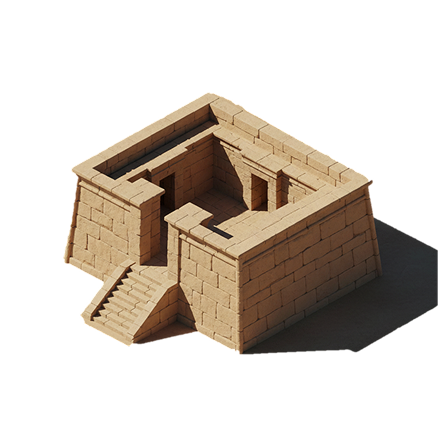
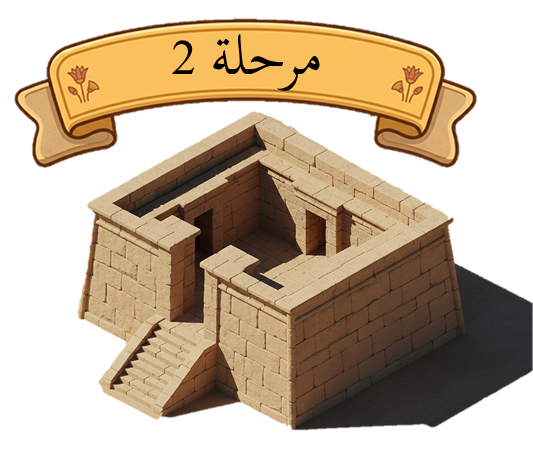
LevelsModelandscreenedit

diff --git a/lib/Models/LevelsModel.dart b/lib/Models/LevelsModel.dart
@@ -12,16 +12,17 @@ final List<StageModel> levelStages = [
     id: 1,
     requiredStars: 0,
     image: AppImages.mapad1,
-    position: const Offset(300, 75),
-    imageWidth: 150,
-    imageHeight: 150,
+    //        space from left, space from top
+    position: const Offset(50, 50),
+    imageWidth: 225,
+    imageHeight: 225,
     levelScreen: const LevelOne(),
   ),
   StageModel(
     id: 2,
-    requiredStars: 25,
+    requiredStars: 30,
     image: AppImages.mapad2,
-    position: const Offset(800, 30),
+    position: const Offset(1100, 50),
     imageWidth: 225,
     imageHeight: 225,
     levelScreen: const LevelTwo(),
@@ -29,29 +30,11 @@ final List<StageModel> levelStages = [
   StageModel(
     levelScreen: const LevelThree(),
     id: 3,
-    requiredStars: 50,
+    requiredStars: 60,
     image: AppImages.mapad3,
-    position: const Offset(1300, 25),
-    imageWidth: 200,
-    imageHeight: 200,
-  ),
-  StageModel(
-    levelScreen: const LevelOne(),
-    id: 4,
-    requiredStars: 75,
-    image: AppImages.mapad4,
-    position: const Offset(300, 600),
-    imageWidth: 200,
-    imageHeight: 200,
-  ),
-  StageModel(
-    levelScreen: const LevelOne(),
-    id: 5,
-    requiredStars: 100,
-    image: AppImages.mapad5,
-    position: const Offset(900, 600),
-    imageWidth: 300,
-    imageHeight: 175,
+    position: const Offset(450, 500),
+    imageWidth: 225,
+    imageHeight: 225,
   ),
 ];
 

diff --git a/lib/Screens/levelMapScreen.dart b/lib/Screens/levelMapScreen.dart
@@ -10,6 +10,8 @@ class LevelMapScreen extends StatelessWidget {
 
   @override
   Widget build(BuildContext context) {
+    final stars = context.watch<GameCubit>().state.theGame.stars;
+
     return Scaffold(
       body: Stack(
         children: [
@@ -18,6 +20,24 @@ class LevelMapScreen extends StatelessWidget {
             child: Image.asset(AppImages.mapPage, fit: BoxFit.cover),
           ),
           ...levelStages.map((stage) => StageButton(stage: stage)),
+          Positioned(
+            top: 150.h,
+            right: 650.w,
+            child: Image.asset(
+              stars >= 30 ? AppImages.track1 : AppImages.track_1dark,
+              width: 650.w,
+              height: 200.h,
+            ),
+          ),
+          Positioned(
+            top: 180.h,
+            right: 425.w,
+            child: Image.asset(
+              stars >= 60 ? AppImages.track2 : AppImages.track_2dark,
+              width: 500.w,
+              height: 1300.h,
+            ),
+          ),
         ],
       ),
     );

diff --git a/lib/Core/Images&colors.dart b/lib/Core/Images&colors.dart
@@ -121,9 +121,11 @@ class AppImages {
 
   static const String temple5 = "${imagepath}image_8.png";
 
-  static const String mapad5 = "${imagepath}mapad5.png";
+  static const String track_1dark = "${imagepath}track_1_dark.png";
+  static const String track1 = "${imagepath}track1.png";
 
-  static const String mapad4 = "${imagepath}mapad4.png";
+  static const String track_2dark = "${imagepath}track_2_dark.png";
+  static const String track2 = "${imagepath}track2.png";
 
   static const String mapad3 = "${imagepath}mapad3.png";
 

diff --git a/lib/Models/gameModel.dart b/lib/Models/gameModel.dart
@@ -19,11 +19,11 @@ class GameModel {
 
   factory GameModel.initial() {
     return GameModel(
-      stars: 51,
-      helps: 3,
-      attempts: 3,
+      stars: 0,
+      helps: 0,
+      attempts: 0,
       correctAnswerCounter: 0,
-      timeLeft: 45,
+      timeLeft: 30,
       currentPuzzle: 0,
       currentLevel: 0,
     );
